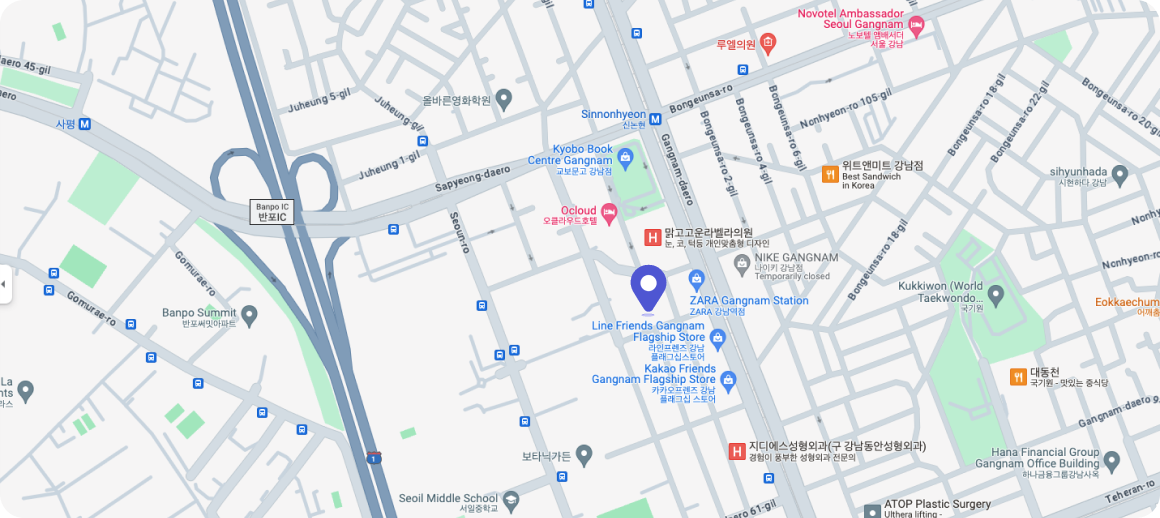
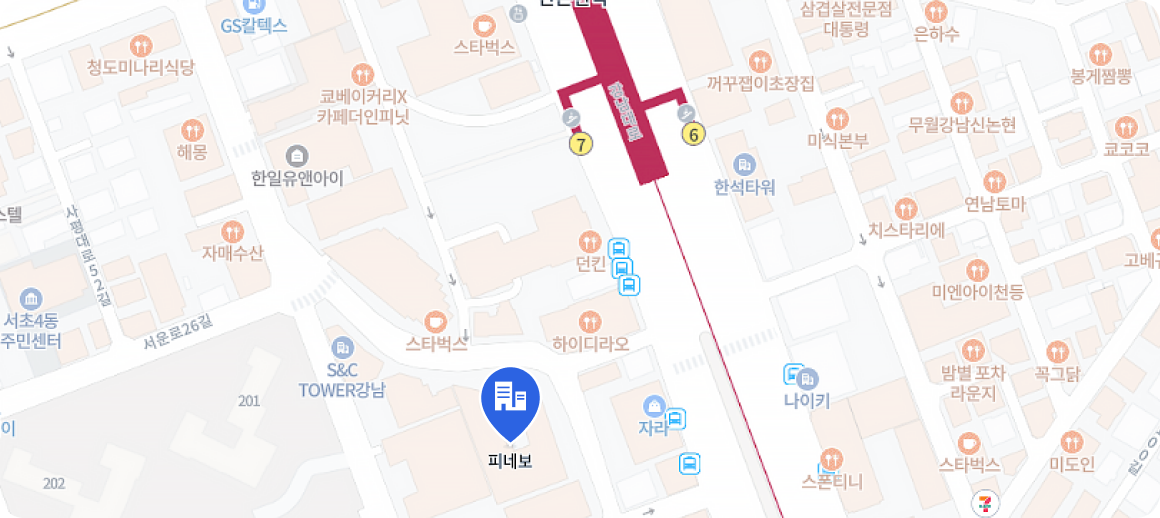
07/22
지도 이미지 수정, 링크 추가, FinevoIn 페이지 수정

diff --git a/src/components/section/NewsSection.vue b/src/components/section/NewsSection.vue
@@ -1,0 +1,100 @@
+<template>
+  <section class="news_container">
+    <div class="news_box">
+      <div class="news_boxTitle">
+        <h1>피네보 성과 보러가기</h1>
+        <p>
+          <span>꿈꾸는 대로 일하고 프로다운 결과를 만드는</span>
+          <span>Imagineers들의 여정에 함께하세요!</span>
+        </p>
+      </div>
+      <button>Finevo News</button>
+    </div>
+  </section>
+</template>
+
+<style lang="scss">
+.news_container {
+  width: 100%;
+  height: 452px;
+  padding-top: 74px;
+  display: flex;
+  justify-content: center;
+  overflow: hidden;
+
+  .news_box {
+    width: 1160px;
+    height: 240px;
+    border-radius: 20px;
+    padding: 50px 100px;
+    background-color: $BACKGROUND_NEUTRAL;
+    display: flex;
+    flex-direction: column;
+    gap: 24px;
+
+    .news_boxTitle {
+      display: flex;
+      flex-direction: column;
+      gap: 8px;
+      color: $BACKGROUND_NORMAL;
+      white-space: nowrap;
+
+      h1 {
+        @extend .title4;
+        line-height: 38px;
+      }
+
+      p {
+        @extend .body2;
+        font-weight: 400;
+        line-height: 28px;
+      }
+    }
+
+    button {
+      width: 173px;
+      height: 48px;
+      border-radius: 100px;
+      padding: 8px;
+      border: none;
+      background: $BACKGROUND_NORMAL;
+      color: $BACKGROUND_DARK;
+      @extend .title7;
+      line-height: 32px;
+      cursor: pointer;
+    }
+  }
+}
+
+@media (max-width: 767px) {
+  .news_container {
+    height: auto;
+    padding: 43.36px 0 94px;
+
+    .news_box {
+      width: 355px;
+      height: 240px;
+      padding: 50px 20px;
+      align-items: center;
+
+      .news_boxTitle {
+        align-items: center;
+        h1 {
+          font-weight: 600;
+          font-size: 24px;
+          line-height: 28.64px;
+        }
+
+        p {
+          font-weight: 400;
+          font-size: 16px;
+          line-height: 24px;
+          display: flex;
+          flex-direction: column;
+          align-items: center;
+        }
+      }
+    }
+  }
+}
+</style>

diff --git a/src/components/section/BrandingSection.vue b/src/components/section/BrandingSection.vue
@@ -36,10 +36,13 @@ const bannerContents = [
 <template>
   <section class="branding_container">
     <div class="branding_title">
-      <h1>피네보 크루는 이렇게 일합니다.</h1>
+      <h1>
+        <span class="branding_title_blue">Imageers </span>
+        <span>Freely Professional</span>
+      </h1>
       <p>
-        동료가 가장 큰 복지라는 말처럼 피네보 임직원은 서로에게 <br />
-        좋은 에너지를 주기 위해 노력합니다.
+        <span>꿈꾸는 대로 일하고 프로다운 결과를 만드는 사람들이</span>
+        <span> 모여 피네보의 성과를 만들어갑니다. </span>
       </p>
     </div>
     <div class="branding_content">
@@ -58,12 +61,12 @@ const bannerContents = [
 .branding_container {
   width: 100%;
   height: 1080px;
-  padding: 220px 0 88px;
+  padding: 139px 0 0;
   background: #ffffff;
   display: flex;
   flex-direction: column;
   overflow: hidden;
-  gap: 46px;
+  gap: 98px;
 
   .branding_title {
     width: 100%;
@@ -76,8 +79,12 @@ const bannerContents = [
     white-space: nowrap;
 
     h1 {
-      @extend .title2;
-      line-height: 41.6px;
+      @extend .display2;
+      line-height: 62.4px;
+
+      .branding_title_blue {
+        @extend .blue_heavy;
+      }
     }
 
     p {
@@ -104,20 +111,28 @@ const bannerContents = [
 
 @media (max-width: 767px) {
   .branding_container {
-    height: 1046px;
-    padding: 161px 20px 57px 20px;
-    gap: 60px;
+    height: auto;
+    padding: 88px 20px 0;
+    gap: 62px;
 
     .branding_title {
+      gap: 10px;
       h1 {
-        font-size: 24px;
-        line-height: 28.64px;
+        font-weight: 800;
+        font-size: 28px;
+        line-height: 38px;
+        display: flex;
+        flex-direction: column;
+        align-items: center;
       }
 
       p {
         font-weight: 400;
         font-size: 14px;
         line-height: 20px;
+        display: flex;
+        flex-direction: column;
+        align-items: center;
       }
     }
 

diff --git a/src/components/section/FinevoInSection.vue b/src/components/section/FinevoInSection.vue
@@ -1,0 +1,81 @@
+<template>
+  <section class="finevoIn_container">
+    <div class="finevoIn_title">
+      <h1>
+        <span>Shift Finance, </span>
+        <span>Shift the World!</span>
+      </h1>
+      <p>도전하는 당신에게 무한한 기회를!</p>
+    </div>
+    <div class="finevoIn_content">
+      <div class="finevoIn_grid">
+        <div class="finevoIn_skillBox"></div>
+        <div class="finevoIn_cultureBox"></div>
+        <div class="finevoIn_teamBox"></div>
+        <div class="finevoIn_applyBox"></div>
+      </div>
+    </div>
+  </section>
+</template>
+
+<style lang="scss">
+.finevoIn_container {
+  width: 100%;
+  height: 1599px;
+  padding: 235px 0 0;
+  background: $BACKGROUND_LIGHTGRAY;
+  display: flex;
+  flex-direction: column;
+  overflow: hidden;
+
+  .finevoIn_title {
+    width: 100%;
+    padding: 8px;
+    display: flex;
+    flex-direction: column;
+    align-items: center;
+    gap: 8px;
+    @extend .label_normal;
+    white-space: nowrap;
+
+    h1 {
+      @extend .display2;
+      line-height: 62.4px;
+    }
+
+    p {
+      @extend .body2;
+      line-height: 28px;
+      text-align: center;
+    }
+  }
+
+  .finevoIn_content {
+    width: 100%;
+    padding: 8px;
+    display: flex;
+    justify-content: center;
+
+    .finevoIn_grid {
+      display: grid;
+      grid-template-columns: 1fr 1fr;
+      grid-template-rows: 1fr 1fr;
+      gap: 20px;
+
+      > div {
+        width: 472px;
+        border-radius: 20px;
+        padding: 40px 40px 0 40px;
+      }
+
+      .finevoIn_skillBox {
+        height: 430px;
+      }
+
+      .finevoIn_cultureBox {
+        height: 510px;
+      }
+    }
+  }
+}
+</style>

diff --git a/src/components/section/PathSection.vue b/src/components/section/PathSection.vue
@@ -49,7 +49,26 @@ const contents = [
           v-for="(content, index) in contents"
           :key="index"
         >
-          <div class="path_contentWrapper">
+          <a
+            v-if="content.image === 'location' || content.image === 'subway'"
+            :href="'https://map.naver.com/p/search/%ED%94%BC%EB%84%A4%EB%B3%B4/place/1589230044?c=15.00,0,0,0,dh&isCorrectAnswer=true'"
+            target="_blank"
+          >
+            <div class="path_contentWrapper">
+              <img
+                :src="require(`@/assets/images/${content.image}.svg`)"
+                :alt="content.title"
+              />
+              <div class="path_contentText">
+                <h2>{{ content.title }}</h2>
+                <p>
+                  <span>{{ content.description1 }}</span>
+                  <span>{{ content.description2 }}</span>
+                </p>
+              </div>
+            </div>
+          </a>
+          <div v-else class="path_contentWrapper">
             <img
               :src="require(`@/assets/images/${content.image}.svg`)"
               :alt="content.title"

diff --git a/src/views/FinevoInView.vue b/src/views/FinevoInView.vue
@@ -1,9 +1,11 @@
 <script setup>
 import BrandingSection from '@/components/section/BrandingSection.vue';
-import BalanceSection from '@/components/section/BalanceSection.vue';
+import NewsSection from '@/components/section/NewsSection.vue';
+import FinevoInSection from '@/components/section/FinevoInSection.vue';
 </script>
 
 <template>
+  <FinevoInSection />
   <BrandingSection />
-  <BalanceSection />
+  <NewsSection />
 </template>

diff --git a/src/components/section/HistorySection.vue b/src/components/section/HistorySection.vue
@@ -148,7 +148,7 @@ const bannerContent = [
 
       .history_contentBox {
         width: 327px;
-        height: 423px;
+        min-width: 327px;
         margin-bottom: 13px;
       }
     }

diff --git a/src/components/content/BannerContent.vue b/src/components/content/BannerContent.vue
@@ -76,7 +76,6 @@ const props = defineProps({
     }
 
     .banner_content_word {
-      font-family: 'Pretendard';
       font-weight: 800;
       font-size: 50px;
       line-height: 50px;
